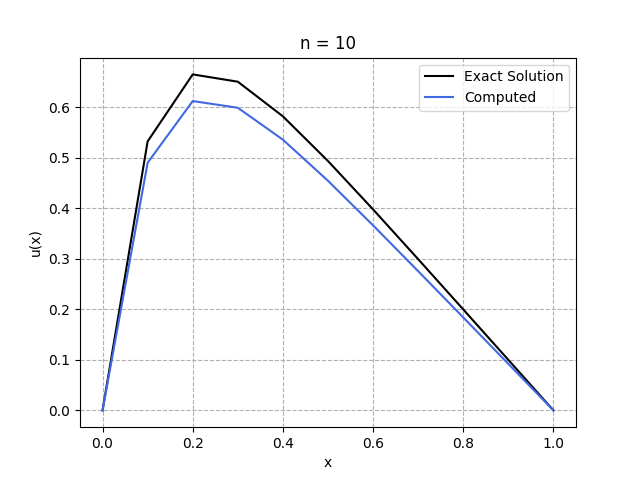
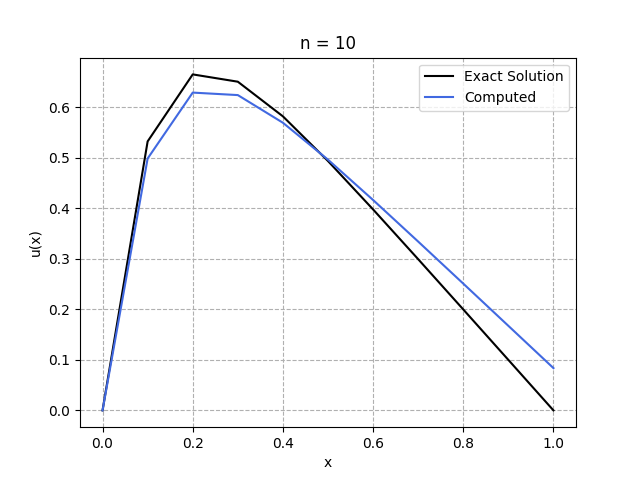
:)

diff --git a/Project_1/prosjekt1_armadillo.cpp b/Project_1/prosjekt1_armadillo.cpp
@@ -44,6 +44,10 @@ int main(int argc, char** argv)
     vec f(n+1);                          // Source term f
     vec exact(n+1);                      // Exact solution
 
+    vec b_tilde(n+1);                    // Diagonal elements after gaussian ellimination
+    vec f_tilde(n+1);                    // Source term after gaussian ellimination
+    vec u(n+1);                          // Solution
+
 
     // Filling x, a, b, c and calculating f and exact.
     for (int i = 0; i < n+1; i++){
@@ -57,12 +61,8 @@ int main(int argc, char** argv)
 
 
     // Setting initial conditions for in the gauss eliminated results
-    vec b_tilde(n+1); b_tilde(1) = b_tilde(n) = b(1);
-    vec f_tilde(n+1); f_tilde(1) = f(1);
-
-
-    // Setting endpoint of the backwards substitution
-    vec u(n+1); u(n) = f_tilde(n)/b_tilde(n);
+     b_tilde(1) = b(1);
+     f_tilde(1) = f(1);
 
 
     //starting the clock
@@ -76,7 +76,9 @@ int main(int argc, char** argv)
       f_tilde(i) = f(i) - (a(i)*f_tilde(i-1))/b_tilde(i-1);
       }
 
-    cout << b_tilde << endl << f_tilde << endl;
+
+    // Setting endpoint of the backwards substitution
+    u(n) = f_tilde(n)/b_tilde(n);
 
 
     // Backward substitution
